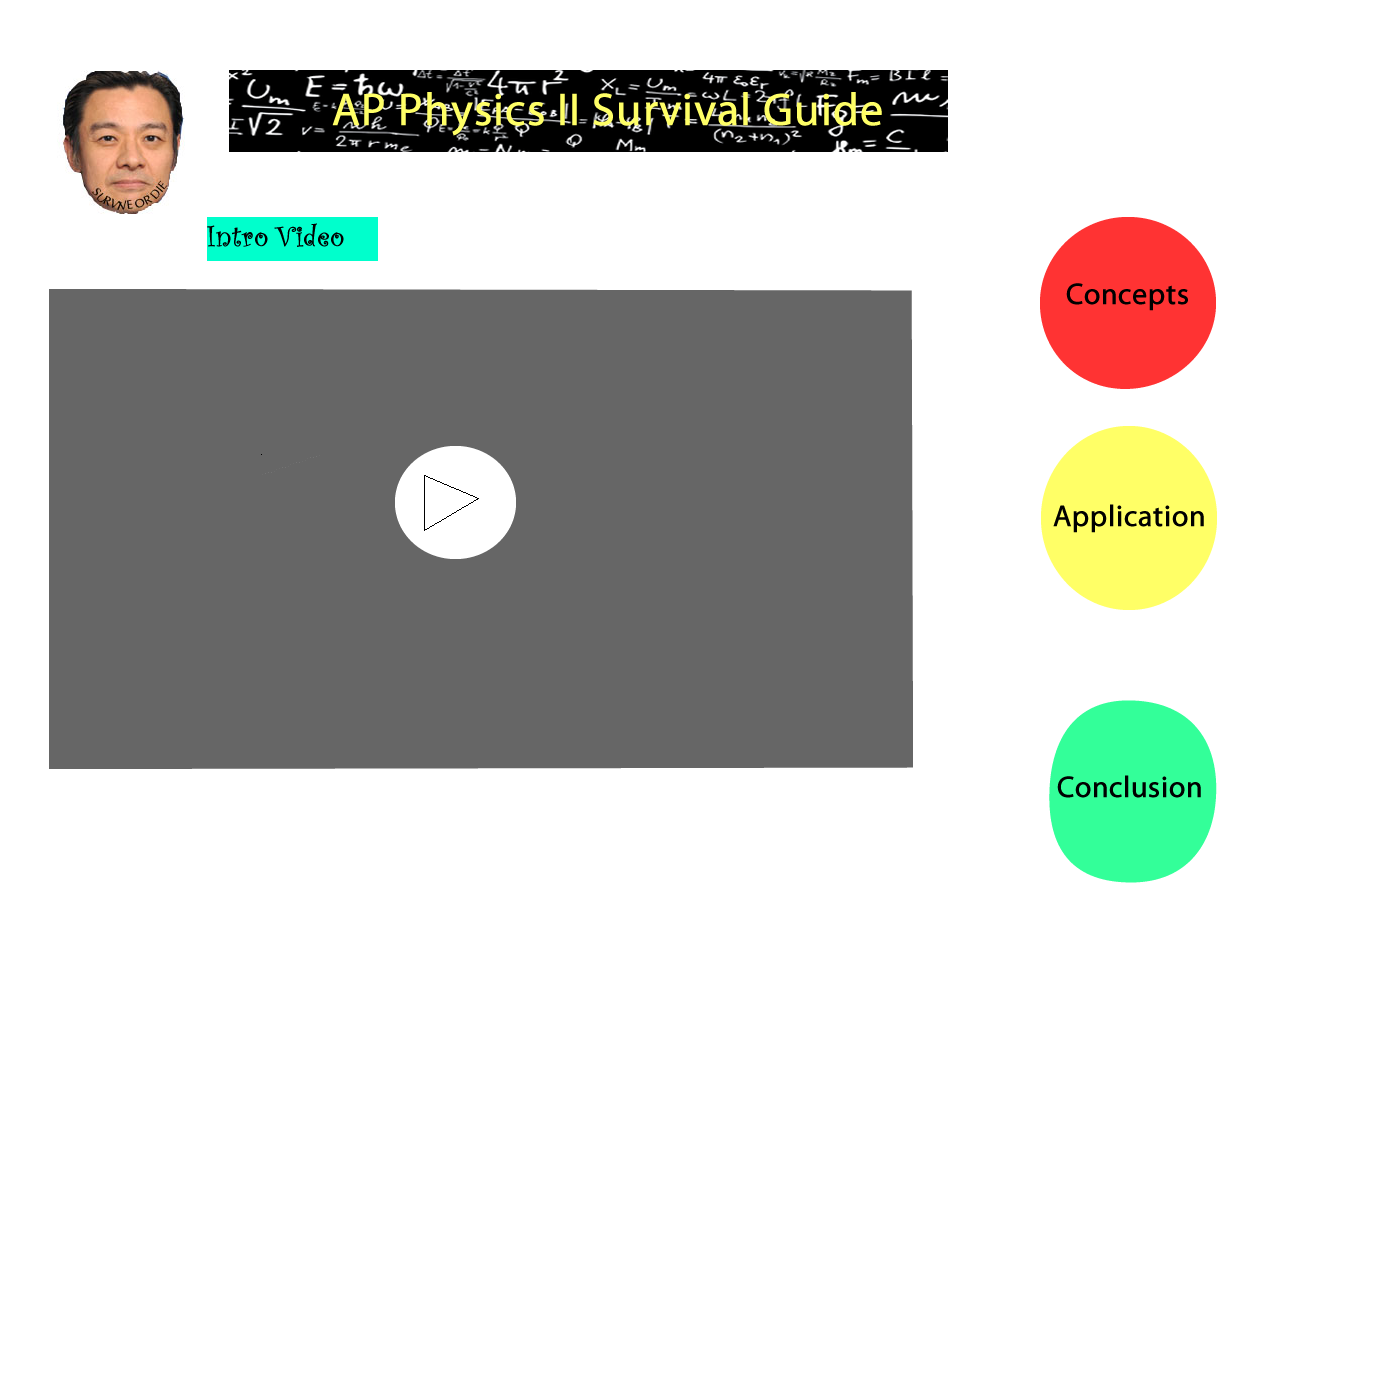
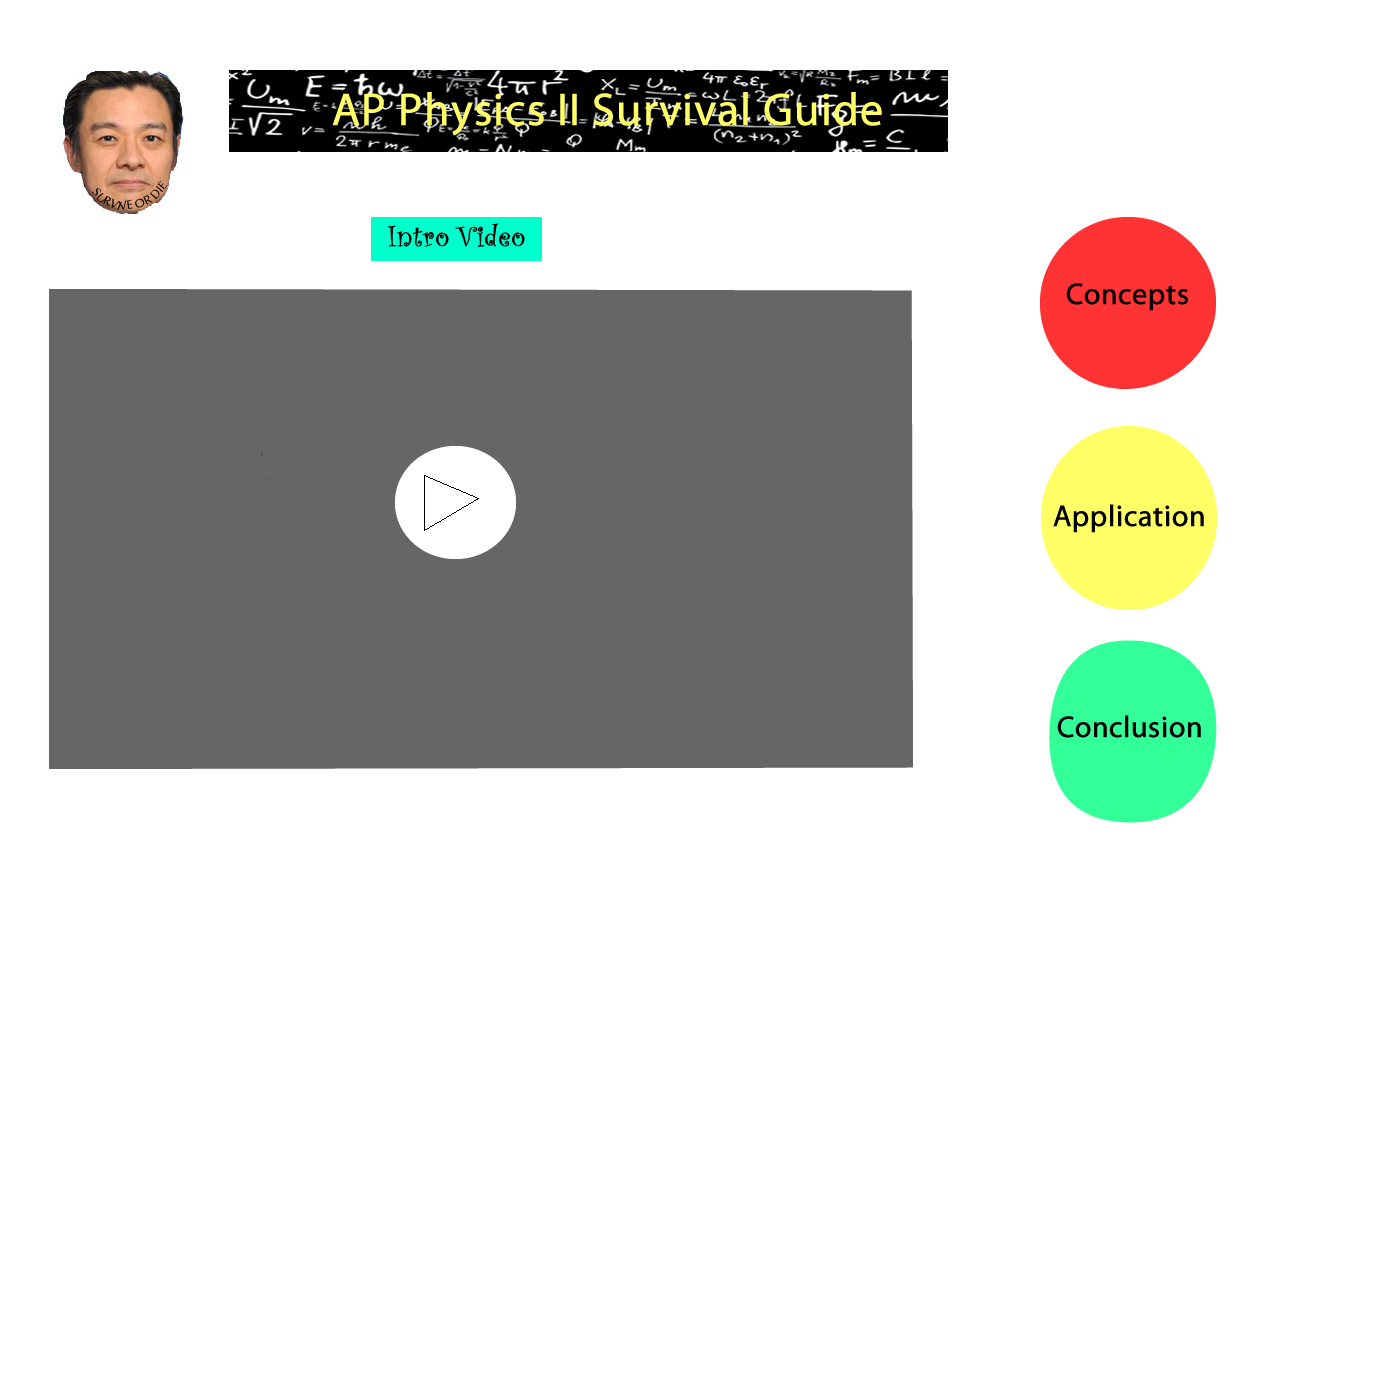
Edited Dreamweaver, and added notes to P.S

Changed region(s): [[0.7371, 0.4607, 0.8907, 0.645], [0.1229, 0.1536, 0.3993, 0.1843]]

diff --git a/index.html b/index.html
@@ -45,12 +45,22 @@
             	  <li> Setting up meeting with Mr. Lo </li>
                 <li> Rethinking and replanning the orginal idea using Mr. Lo's view </li>
                 <li> Flowchart 1</li>
+                <p> This is the flowchart we finally chose because it alings with our objectives and purpose. It focuses just on one topic as that is what Mr. Lo asked for. Another thing is that it significantly reduces the number of sub pages we have on our website by clearly identifying the three most important categoriels while keeping it organized.
                 <div style="width: 480px; height: 360px; margin: 10px; position: relative;"><iframe allowfullscreen frameborder="0" style="width:480px; height:360px" src="https://www.lucidchart.com/documents/embeddedchart/e62e6488-5f78-4f5e-a9f7-aba21323d166" id="aq-YxJ-x1w15"></iframe><a href="https://www.lucidchart.com/pages/examples/mind_mapping_software" style="margin: 0; padding: 0; border: none; display: inline-block; position: absolute; bottom: 5px; left: 5px;"><img alt="mind mapping software"title="Lucidchart online diagrams"style="width: 100px; height: 30px; margin: 0; padding: 0; border-image: none; border: none; display: block"src="https://www.lucidchart.com/img/diagrams-lucidchart.png"/></a></div>
                 <li> Flowchart 2 </li>
                 <div style="width: 480px; height: 360px; margin: 10px; position: relative;"><iframe allowfullscreen frameborder="0" style="width:480px; height:360px" src="https://www.lucidchart.com/documents/embeddedchart/b587d64b-3b32-4cc4-8ed2-db3e429f3cc1" id="IYz751fMVig2"></iframe><a href="https://www.lucidchart.com/pages/examples/mind_mapping_software" style="margin: 0; padding: 0; border: none; display: inline-block; position: absolute; bottom: 5px; left: 5px;"><img alt="mind mapping software"title="Lucidchart online diagrams"style="width: 100px; height: 30px; margin: 0; padding: 0; border-image: none; border: none; display: block"src="https://www.lucidchart.com/img/diagrams-lucidchart.png"/></a></div>
                 <li> Flowchart 3 </li>
                 <div style="width: 480px; height: 360px; margin: 10px; position: relative;"><iframe allowfullscreen frameborder="0" style="width:480px; height:360px" src="https://www.lucidchart.com/documents/embeddedchart/b587d64b-3b32-4cc4-8ed2-db3e429f3cc1" id="IYz751fMVig2"></iframe><a href="https://www.lucidchart.com/pages/examples/mind_mapping_software" style="margin: 0; padding: 0; border: none; display: inline-block; position: absolute; bottom: 5px; left: 5px;"><img alt="mind mapping software"title="Lucidchart online diagrams"style="width: 100px; height: 30px; margin: 0; padding: 0; border-image: none; border: none; display: block"src="https://www.lucidchart.com/img/diagrams-lucidchart.png"/></a></div>
 
+        <li> Success Criteria </li>
+          <ol>
+              <li> The website has ready notes available on kinetics </li>
+              <li> The website contains a simple interactive lab that focuses on teaching the concept in an application setting </li>
+              <li> The website has Mr. Lo approved videos that students can refer to in order to help with learning the topic </li>
+              <li> The website contains practice questions relating to kinematics and answers </li>
+              <li> The website has a navigation bar that helps to move along sub-pages fairly easily </li>
+              <li> The website has summary notes that conclude the whole topic </li>
+              <li> The website has music and special sound effects that Mr. Lo requested for </li>
 
           </ol>
 
@@ -86,7 +96,7 @@
                     <li> Everyone creates their own storyboard and then we compare  </li>
                     <li> <a href="./MakingHomepage">Storyboard </a></li>
                     <a href="./MakingHomepage"> </a>
-                    
+
                   </ol>
 
                   <li> Second Meeting with Client </li>

diff --git a/FinalPages/index-DW.html b/FinalPages/index-DW.html
@@ -6,33 +6,35 @@
 <style type="text/css">
 #apDiv1 {
 	position:absolute;
-	left:894px;
-	top:393px;
+	left:1026px;
+	top:426px;
 	width:201px;
 	height:191px;
 	z-index:1;
 }
 #apDiv2 {
 	position:absolute;
-	left:217px;
-	top:13px;
-	width:719px;
-	height:118px;
+	left:229px;
+	top:70px;
+	width:721px;
+	height:83px;
 	z-index:2;
 }
 #apDiv3 {
 	position:absolute;
-	left:16px;
-	top:177px;
+	left:48px;
+	top:289px;
 	width:865px;
 	height:480px;
 	z-index:3;
 }
 #apDiv4 {
 	position:absolute;
-	width:200px;
-	height:115px;
+	width:156px;
+	height:164px;
 	z-index:4;
+	left: 41px;
+	top: 70px;
 }
 #apDiv5 {
 	position:absolute;
@@ -42,9 +44,10 @@
 	height:191px;
 	z-index:4;
 }
-#apDiv6 {	position:absolute;
-	left:893px;
-	top:156px;
+#apDiv6 {
+	position:absolute;
+	left:1025px;
+	top:209px;
 	width:201px;
 	height:191px;
 	z-index:4;
@@ -58,33 +61,64 @@
 }
 #apDiv8 {
 	position:absolute;
-	left:894px;
-	top:629px;
+	left:1025px;
+	top:640px;
 	width:201px;
 	height:191px;
 	z-index:5;
 }
 #apDiv9 {
 	position:absolute;
-	left:215px;
-	top:13px;
-	width:719px;
-	height:119px;
+	left:249px;
+	top:71px;
+	width:698px;
+	height:116px;
 	z-index:6;
+}
+#apDiv10 {
+	position:absolute;
+	left:378px;
+	top:227px;
+	width:173px;
+	height:43px;
+	z-index:7;
+}
+#apDiv10 {
+	color: #03F;
+}
+#apDiv10 {
+	vertical-align: middle;
+}
+#apDiv10 {
+	text-align: center;
+}
+#apDiv9 {
+	font-size: 24px;
+	font-style: normal;
+	color: #FF0;
+}
+#apDiv9 {
+	text-align: center;
+}
+#apDiv10 {
+	background-color: #3FF;
+	white-space: normal;
 }
 </style>
 </head>
 
 <body>
-<div id="apDiv1"><img src="../c2.jpg" width="203" height="190" /><img src="../c3.jpg" width="203" height="182" /></div>
+<div id="apDiv1"><img src="../c2.jpg" width="203" height="190" /></div>
 <div id="apDiv2"><img src="../Screen Shot 2015-01-13 at 8.26.45 AM.png" width="718" height="118" /></div>
 <div id="apDiv3">
   <div></div>
-<img src="../SLICE.jpg" width="865" height="495" /> </div>
-<div id="apDiv5"></div>
-<div id="apDiv4"><img src="../Screen Shot 2015-01-09 at 11.21.52 AM.jpg" width="199" height="126" /></div>
+<img src="../SLICE.jpg" width="865" height="495" /></div>
+<div id="apDiv4"><img src="../Screen Shot 2015-01-09 at 11.21.52 AM.jpg" width="156" height="164" /></div>
 <div id="apDiv6"><img src="../c1.jpg" width="203" height="191" /></div>
-<div id="apDiv8"></div>
-<div id="apDiv9">AP PHYSICS II SURVIVAL GUIDE</div>
+<div id="apDiv8"><img src="../c3.jpg" width="203" height="182" /></div>
+<div id="apDiv9">
+  <p><strong>AP PHYSICS II SURVIVAL GUIDE</strong></p>
+</div>
+<div id="apDiv10">INTRO VIDEO</div>
 </body>
 </html>
